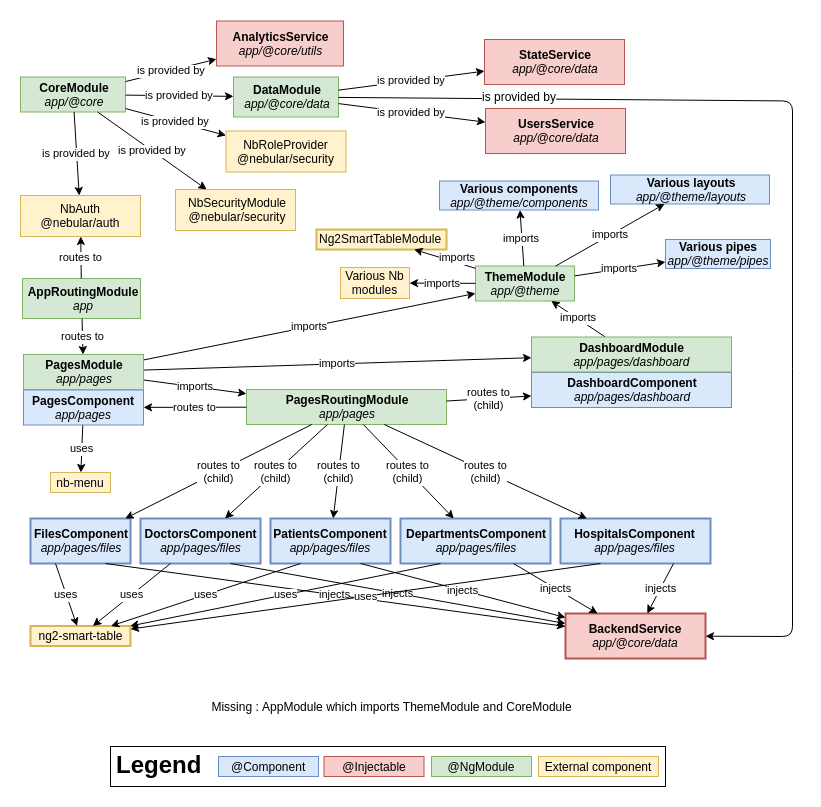
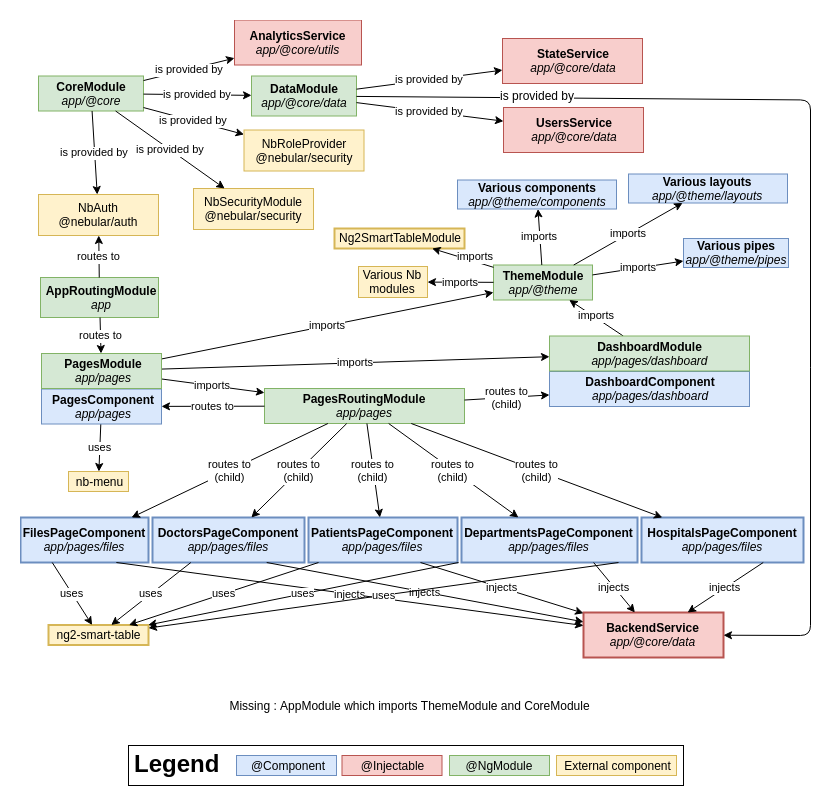
Rename the page components

diff --git a/src/app/pages/pages-routing.module.ts b/src/app/pages/pages-routing.module.ts
@@ -3,11 +3,12 @@ import { NgModule } from '@angular/core';
 
 import { PagesComponent } from './pages.component';
 import { DashboardComponent } from './dashboard/dashboard.component';
-import { HospitalsComponent } from './hospitals/hospitals.component';
-import { DepartmentsComponent } from './departments/departments.component';
-import { DoctorsComponent } from './doctors/doctors.component';
-import { PatientsComponent } from './patients/patients.component';
-import { FilesComponent } from './files/files.component';
+
+import { HospitalsPageComponent } from './hospitals-page/hospitals-page.component';
+import { DepartmentsPageComponent } from './departments-page/departments-page.component';
+import { DoctorsPageComponent } from './doctors-page/doctors-page.component';
+import { PatientsPageComponent } from './patients-page/patients-page.component';
+import { FilesPageComponent } from './files-page/files-page.component';
 
 const routes: Routes = [{
   path: '',
@@ -19,23 +20,23 @@ const routes: Routes = [{
     },
     {
       path: 'hospitals',
-      component: HospitalsComponent,
+      component: HospitalsPageComponent,
     },
     {
       path: 'departments',
-      component: DepartmentsComponent,
+      component: DepartmentsPageComponent,
     },
     {
       path: 'doctors',
-      component: DoctorsComponent,
+      component: DoctorsPageComponent,
     },
     {
       path: 'patients',
-      component: PatientsComponent,
+      component: PatientsPageComponent,
     },
     {
       path: 'files',
-      component: FilesComponent,
+      component: FilesPageComponent,
     },
     {
       path: '',

diff --git a/src/app/pages/pages.module.ts b/src/app/pages/pages.module.ts
@@ -4,11 +4,12 @@ import { PagesComponent } from './pages.component';
 import { DashboardModule } from './dashboard/dashboard.module';
 import { PagesRoutingModule } from './pages-routing.module';
 import { ThemeModule } from '../@theme/theme.module';
-import { HospitalsComponent } from './hospitals/hospitals.component';
-import { DepartmentsComponent } from './departments/departments.component';
-import { DoctorsComponent } from './doctors/doctors.component';
-import { PatientsComponent } from './patients/patients.component';
-import { FilesComponent } from './files/files.component';
+
+import { HospitalsPageComponent } from './hospitals-page/hospitals-page.component';
+import { DepartmentsPageComponent } from './departments-page/departments-page.component';
+import { DoctorsPageComponent } from './doctors-page/doctors-page.component';
+import { PatientsPageComponent } from './patients-page/patients-page.component';
+import { FilesPageComponent } from './files-page/files-page.component';
 
 const PAGES_COMPONENTS = [
   PagesComponent,
@@ -22,11 +23,11 @@ const PAGES_COMPONENTS = [
   ],
   declarations: [
     ...PAGES_COMPONENTS,
-    HospitalsComponent,
-    DepartmentsComponent,
-    DoctorsComponent,
-    PatientsComponent,
-    FilesComponent,
+    HospitalsPageComponent,
+    DepartmentsPageComponent,
+    DoctorsPageComponent,
+    PatientsPageComponent,
+    FilesPageComponent,
   ],
 })
 export class PagesModule {

diff --git a/src/app/pages/doctors-page/doctors-page.component.ts b/src/app/pages/doctors-page/doctors-page.component.ts
@@ -2,24 +2,27 @@ import { Component, OnInit } from '@angular/core';
 import { BackendService } from '../../@core/data/backend.service';
 
 @Component({
-  selector: 'ngx-departments',
-  templateUrl: './departments.component.html',
-  styleUrls: ['./departments.component.scss'],
+  selector: 'ngx-doctors-page',
+  templateUrl: './doctors-page.component.html',
+  styleUrls: ['./doctors-page.component.scss'],
 })
-export class DepartmentsComponent implements OnInit {
+export class DoctorsPageComponent implements OnInit {
 
   settings = {
     columns: {
       id: {
         title: 'ID',
       },
-      name: {
-        title: 'Name',
+      firstName: {
+        title: 'First name',
       },
-      hospital: {
-        title: 'Hospital ID',
+      lastName: {
+        title: 'Last name',
+      },
+      departments: {
+        title: 'Department ID',
         valuePrepareFunction: function (d) {
-          return d['id'];
+          return d[0]['id'];
         },
       },
     },
@@ -34,7 +37,7 @@ export class DepartmentsComponent implements OnInit {
   }
 
   ngOnInit() {
-    this.dataService.getDepartments().subscribe(d => this.data = d);
+    this.dataService.getDoctors().subscribe(d => this.data = d);
   }
 
 }

diff --git a/src/app/pages/departments-page/departments-page.component.ts b/src/app/pages/departments-page/departments-page.component.ts
@@ -2,27 +2,24 @@ import { Component, OnInit } from '@angular/core';
 import { BackendService } from '../../@core/data/backend.service';
 
 @Component({
-  selector: 'ngx-doctors',
-  templateUrl: './doctors.component.html',
-  styleUrls: ['./doctors.component.scss'],
+  selector: 'ngx-departments-page',
+  templateUrl: './departments-page.component.html',
+  styleUrls: ['./departments-page.component.scss'],
 })
-export class DoctorsComponent implements OnInit {
+export class DepartmentsPageComponent implements OnInit {
 
   settings = {
     columns: {
       id: {
         title: 'ID',
       },
-      firstName: {
-        title: 'First name',
+      name: {
+        title: 'Name',
       },
-      lastName: {
-        title: 'Last name',
-      },
-      departments: {
-        title: 'Department ID',
+      hospital: {
+        title: 'Hospital ID',
         valuePrepareFunction: function (d) {
-          return d[0]['id'];
+          return d['id'];
         },
       },
     },
@@ -37,7 +34,7 @@ export class DoctorsComponent implements OnInit {
   }
 
   ngOnInit() {
-    this.dataService.getDoctors().subscribe(d => this.data = d);
+    this.dataService.getDepartments().subscribe(d => this.data = d);
   }
 
 }

diff --git a/src/app/pages/hospitals-page/hospitals-page.component.ts b/src/app/pages/hospitals-page/hospitals-page.component.ts
@@ -2,11 +2,11 @@ import { Component, OnInit } from '@angular/core';
 import { BackendService } from '../../@core/data/backend.service';
 
 @Component({
-  selector: 'ngx-hospitals',
-  templateUrl: './hospitals.component.html',
-  styleUrls: ['./hospitals.component.scss'],
+  selector: 'ngx-hospitals-page',
+  templateUrl: './hospitals-page.component.html',
+  styleUrls: ['./hospitals-page.component.scss'],
 })
-export class HospitalsComponent implements OnInit {
+export class HospitalsPageComponent implements OnInit {
 
   settings = {
     columns: {

diff --git a/src/app/pages/patients-page/patients-page.component.ts b/src/app/pages/patients-page/patients-page.component.ts
@@ -2,11 +2,11 @@ import { Component, OnInit } from '@angular/core';
 import { BackendService } from '../../@core/data/backend.service';
 
 @Component({
-  selector: 'ngx-patients',
-  templateUrl: './patients.component.html',
-  styleUrls: ['./patients.component.scss'],
+  selector: 'ngx-patients-page',
+  templateUrl: './patients-page.component.html',
+  styleUrls: ['./patients-page.component.scss'],
 })
-export class PatientsComponent implements OnInit {
+export class PatientsPageComponent implements OnInit {
 
   settings = {
     columns: {

diff --git a/src/app/pages/files-page/files-page.component.ts b/src/app/pages/files-page/files-page.component.ts
@@ -2,11 +2,11 @@ import { Component, OnInit } from '@angular/core';
 import { BackendService } from '../../@core/data/backend.service';
 
 @Component({
-  selector: 'ngx-files',
-  templateUrl: './files.component.html',
-  styleUrls: ['./files.component.scss'],
+  selector: 'ngx-files-page',
+  templateUrl: './files-page.component.html',
+  styleUrls: ['./files-page.component.scss'],
 })
-export class FilesComponent implements OnInit {
+export class FilesPageComponent implements OnInit {
 
   settings = {
     columns: {

diff --git a/src/app/pages/departments-page/departments-page.component.html b/src/app/pages/departments-page/departments-page.component.html
@@ -1,0 +1,11 @@
+<div class="row">
+  <nb-card>
+     <nb-card-header>
+         Departments
+     </nb-card-header>
+     <nb-card-body>
+       <ng2-smart-table [settings]="settings" [source]="data"></ng2-smart-table>
+     </nb-card-body>
+  </nb-card>
+</div>
+  
